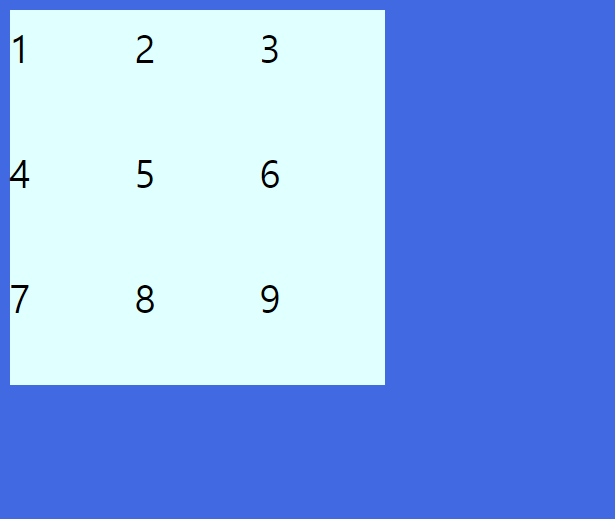
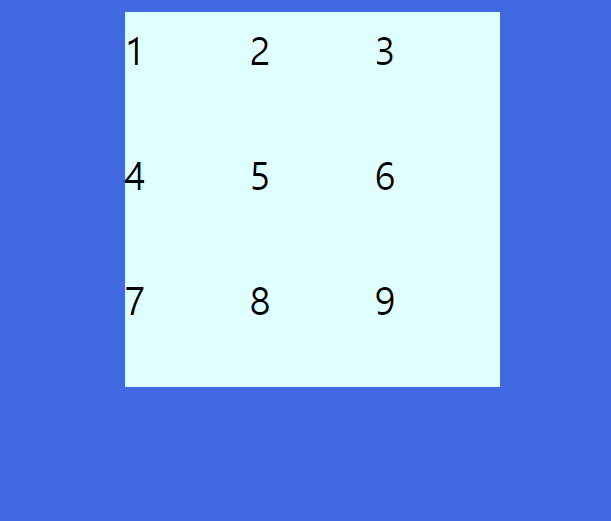
[update]  210916 review

diff --git a/CSS/grid-justify-content.html b/CSS/grid-justify-content.html
@@ -11,7 +11,7 @@
       display: grid;
       grid-template-columns: repeat(3, 100px);
       grid-template-rows: repeat(3, 100px);
-      justify-content: space-between;
+      justify-content: space-around;
     }
 
     .item {

diff --git a/CSS/11. Flex.md b/CSS/11. Flex.md
@@ -6,7 +6,7 @@ Flex 속성
 
 Flex 설명
 - 이름 그대로 유연한 박스 모델을 제공
-- 특히 요소의 상하좌우 정렬과 순서 변경 기능이 탁원
+- 특히 요소의 상하좌우 정렬과 순서 변경 기능이 탁월
 - 1행 수평 정렬
 - 요소 간 간격 조절
 - Grid와 가장 다른 점은 그리드가 테이블 모양으로 정형화된 형태를 배치하는데 강점이 있는 반면, Flex는 비정형 레이아웃을 좀 더 자유롭게 배치할 수 있는 장점이 있습니다.
@@ -528,7 +528,6 @@ flex item의 너비 기본값을 px, % 등의 단위로 초기 크기(initial ma
 **flex-grow**, **flex-shrink**, **flex-basis**를 한 번에 지정하는 Shorthand. 첫 번째 늘릴 비율, 두 번째 줄일 비율, 세 번째 기본값. 각자 **기본값은 0 1 auto**. 
 
 ```html
-flex: 1 1 0 /* 늘이거나 줄이지 않음*/
 flex: 2 2 0 /* 2배 늘이거나 2배 줄임*/
 ```
 

diff --git a/CSS/10. 애니메이션.md b/CSS/10. 애니메이션.md
@@ -273,8 +273,8 @@ animation: myAnimation 2s infinite alternate;
       width: 100px;
       height: 100px;
       border: 10px solid indianred;
-      background-color:wheat;
-      font-size: 30px       ;
+      background-color: wheat;
+      font-size: 30px;
       border-radius: 50%;
     }
 
@@ -334,7 +334,7 @@ animation-direction: alternate-reverse;
       height: 100px;
       border: 10px solid indianred;
       background-color:wheat;
-      font-size: 30px       ;
+      font-size: 30px;
       border-radius: 50%;
     }
 

diff --git a/CSS/09. transition.md b/CSS/09. transition.md
@@ -36,7 +36,7 @@ transition-property: 특정요소(margin, color...)
 <head>
   <style>
     div{
-      width: 150px;0
+      width: 150px;
       height: 75px;
       border: 2px dashed greenyellow;
       background-color: plum;
